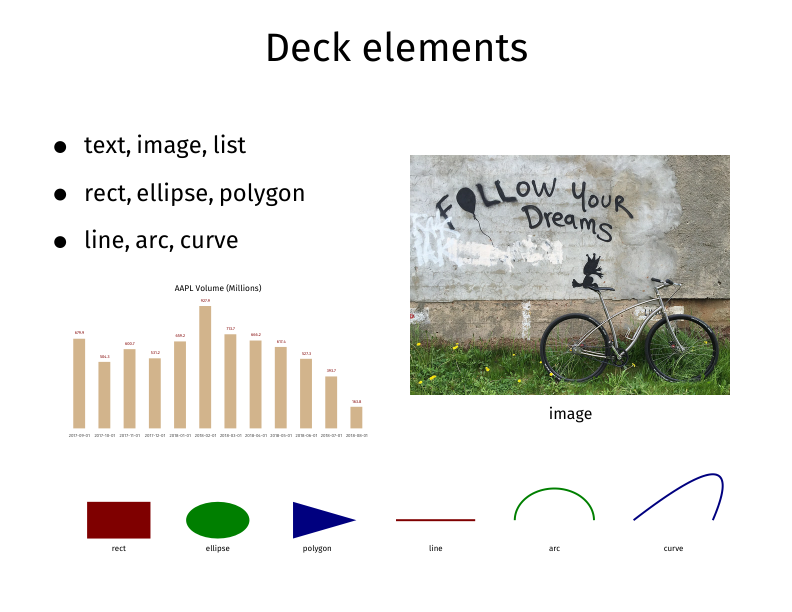
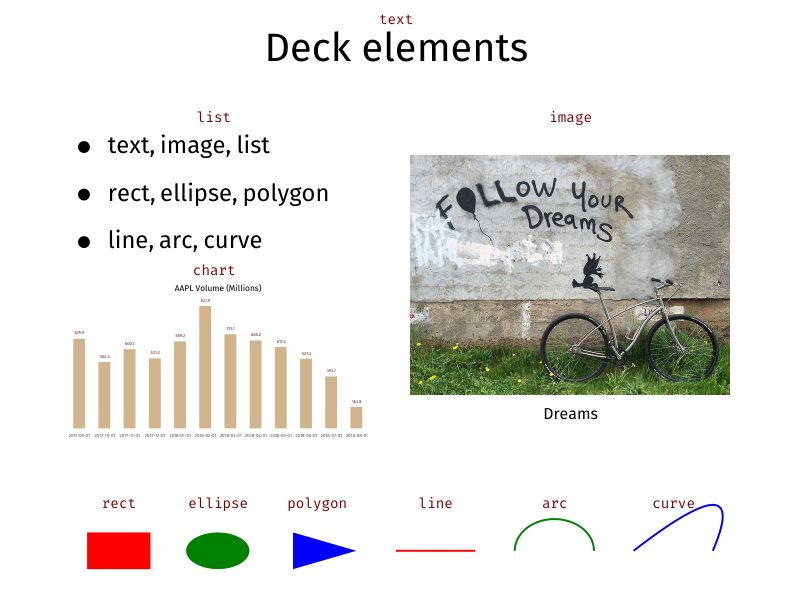
decksh: update eval and example to include annotations

diff --git a/cmd/decksh/README.md b/cmd/decksh/README.md
@@ -15,35 +15,51 @@ Typically, ```decksh``` acts as the head of a rendering pipeline:
 
 ## Example input
 
-This deck script
+	This deck script:
+		// Example deck
+		deck begin
+			notecolor="maroon"
+			notesize=1.8
+			notefont="mono"
+			iw=640
+			ih=480
+			c1="red"
+			c2="green"
+			c3="blue"
+			slide begin "white" "black"
+				ctext "Deck elements" 50 90 5
+				cimage "follow.jpg" "Dreams" 72 55 iw ih 50 "https://budnitzbicycles.com"
 
-	// example deck
-	deck begin
-		canvas 1200 900
-		slide begin "white" "black"
-			ctext "Deck elements" 50 90 5
-			cimage "follow.jpg" "Dreams" 70 60 640 480 50 "https://budnitzbicycles.com"
+				// List
+				blist 10 75 3
+					li "text, image, list"
+					li "rect, ellipse, polygon"
+					li "line, arc, curve"
+				elist
 
-			blist 10 70 3
-				li "text, image, list"
-				li "rect, ellipse, polygon"
-				li "line, arc, curve"
-			elist
+				// Graphics
+				gy=10
+				notey=17
+				rect    15 gy 8 6              c1
+				ellipse 27.5 gy 8 6            c2
+				polygon "37 37 45" "7 13 10"   c3
+				line    50 gy 60 gy 0.25       c1
+				arc     70 gy 10 8 0 180 0.25  c2
+				curve   80 gy 95 25 90 gy 0.25 c3
 
-			rect    15 20 8 6              "rgb(127,0,0)"
-			ellipse 27.5 20 8 6            "rgb(0,127,0)"
-			polygon "37 37 45" "17 23 20"  "rgb(0,0,127)"
-			line    50 20 60 20 0.25       "rgb(127,0,0)"
-			arc     70 20 10 8 0 180 0.25  "rgb(0,127,0)"
-			curve   80 20 95 30 90 20 0.25 "rgb(0,0,127)"
-			ctext "rect"     15 15 1
-			ctext "ellipse"  27.5 15 1
-			ctext "polycon"  40 15 1
-			ctext "line"     55 15 1
-			ctext "arc"      70 15 1
-			ctext "curve"    85 15 1
-			dchart -left=10 -right=45 -top=50 -bottom=30 -fulldeck=f -textsize=0.7 -color=tan  -barwidth=1.5 AAPL.d 
-		slide end
+				// Annotations
+				ctext "text"	50 96 notesize notefont notecolor
+				ctext "image"	72 80 notesize notefont notecolor
+				ctext "list"	27 80 notesize notefont notecolor
+				ctext "chart"	27 55 notesize notefont notecolor
+				ctext "rect"	15 notey notesize notefont notecolor
+				ctext "ellipse"	27.5 notey notesize notefont notecolor
+				ctext "polygon"	40 notey notesize notefont notecolor
+				ctext "line"	55 notey notesize notefont notecolor
+				ctext "arc"		70 notey notesize notefont notecolor
+				ctext "curve"	85 notey notesize notefont notecolor
+				dchart -left=10 -right=45 -top=50 -bottom=30 -fulldeck=f -textsize=0.7 -color=tan  -barwidth=1.5 AAPL.d  
+			slide end
 	deck end
 
 	
@@ -58,6 +74,13 @@ Coordinates, dimensions, scales and opacities are floating point numbers ranging
 (they represent percentages on the canvas and percent opaque).  Some arguments are optional, and if omitted defaults are applied (black for text, gray for graphics, 100% opacity).
 
 Canvas size and image dimensions are in pixels.
+
+```id=<number>``` defines a constant, which may be then subtitited. For example:
+
+	x=10
+	y=20
+	text "hello, world" x y 5
+
 
 ## Structure
 
